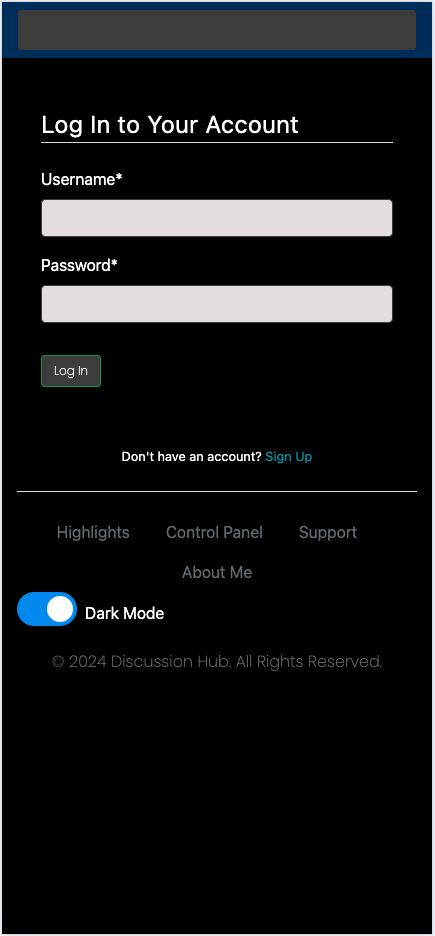
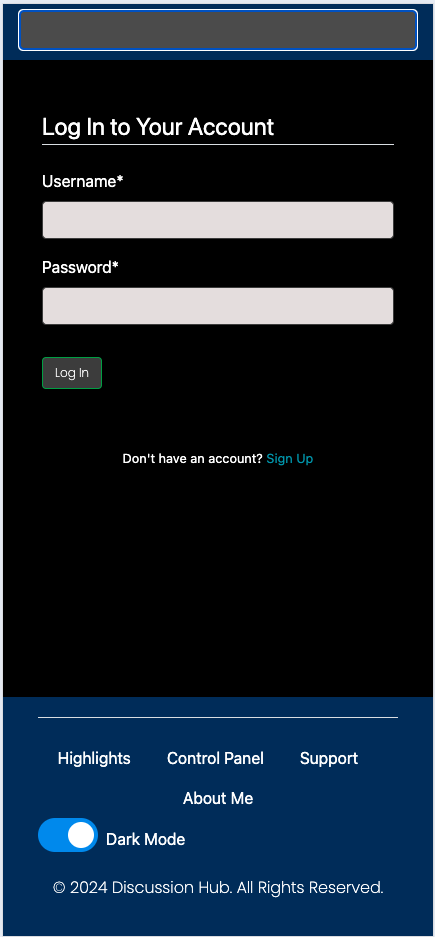
Modify the section that contains footer elements

diff --git a/README.md b/README.md
@@ -286,7 +286,7 @@ The icons used for the site were sourced from [Font Awesome](https://fontawesome
 
 The Discussion Room provides a simple yet engaging web platform, aiming to establish its unique color scheme and style. The navigation bar includes several links, offering quick access to various sections, such as About Us, Create a Post, Home Page, Logout, and the Notifications Page.
 
-The footer features additional links for Highlights, Collaboration Requests, About the Team, and the Admin Page, ensuring users can easily find important information. 
+The footer features additional links for Highlights, Collaboration Requests, About the Team, and Admin Page, ensuring users can easily find important information. This footer is fixed at the bottom of the page, providing users with continuous access to these essential resources, enhancing navigation and overall user experience.
 
 Additionally, the site includes a Trending Topics section that showcases random posts and a dedicated Advertisement Window for promotional content. Above the trending topics, users will find Categories to help them navigate discussions more effectively.
 
@@ -814,9 +814,11 @@ Each post will display 6 comments per page, with pagination activated to navigat
 
 ### Footer
 
-The footer is positioned at the bottom of the page and provides essential navigation options. It includes links to the Highlights page, Control Panel, Support and Collaboration, and About Me page. 
+The footer is fixed at the bottom of the page and features a design that matches the color of the navbar, providing a cohesive look throughout the website. It offers essential navigation options, including links to the Highlights page, Control Panel, Support and Collaboration, and About Me page.
 
-These links are accessible to both logged-in and logged-out users, ensuring that everyone can explore the content. However, the Control Panel link is restricted to authorized personnel only, while the other links remain available to all users.
+These links are accessible to both logged-in and logged-out users, ensuring that everyone can explore the content. However, the Control Panel link is restricted to authorized personnel only and will open in a separate page, while the other links remain available to all users.
+
+
 
 *Footer Page Desktop*<br>
 ![Footer Page Desktop](static/images/screenshots/footerdesktop.png)
@@ -884,10 +886,10 @@ On the right side, users will find:
 * Trending Posts showcased in a white container with black and grey text, ensuring that users can easily engage with popular discussions.
 * An Advertisement Window featuring dark grey borders with a white background, providing a clear viewing area for promotional content.
 
-At the bottom of the page, a white line visually separates the footer from the rest of the content. The footer includes essential links and a toggle switch for dark/light mode, allowing users to easily switch their viewing preference.
+At the bottom of the page, a white line visually separates the footer from the rest of the content. The footer is fixed at the bottom of the page and has the same color as the navbar, creating a cohesive look throughout the website. It includes essential links and a toggle switch for dark/light mode, allowing users to easily switch their viewing preference.
 
 *Main Page Dark Mode*<br>
-![Main Page Dark Mode](static/images/screenshots/darkmodeloggedout.png)
+![Main Page Dark Mode](static/images/screenshots/darkmodemainpageversion.png)
 
 *Main Page Dark Mobile*<br>
 ![Main Page Dark Mobile](static/images/screenshots/darkmodehome.png)
@@ -914,7 +916,7 @@ The Login Page in dark mode features a sleek design that enhances user experienc
 
 The Log In button is styled with a green border, adding a visually appealing touch. Below the login fields, users who do not have an account can find a prompt to sign up, presented in a nice blue color for emphasis.
 
-A clean white line visually separates the footer from the login options. In the bottom left corner, there is a toggle for switching between dark and light modes, designed in blue to align with the overall color theme.
+A clean white line visually separates the footer from the login options. The footer is fixed at the bottom of the page and features a fixed design that matches the overall color theme. In the bottom left corner, there is a toggle for switching between dark and light modes, designed in blue to align with the overall color theme.
 
 *Dark Mode Log In Page*<br>.
 ![Dark Mode Log In Page](static/images/screenshots/darkmodelogindesktop.png)
@@ -931,21 +933,21 @@ The Register Page in dark mode mirrors the structure of the Login Page, ensuring
 * Below the registration fields, the message for users who already have an account is displayed in white, accompanied by a Log In link styled in a nice blue color.
 * Error Messaging: If users enter incorrect information in the password fields or if they attempt to register a username that is already taken, a warning message will appear below the respective input field. This feedback helps users correct their entries promptly.
 
-At the bottom of the page, a classic line separates the toggle for switching between light and dark modes from the footer, which is presented in a subtle grey color to provide a clear and elegant delineation.
+At the bottom of the page, the footer is fixed and features all essential links presented in white, maintaining the same color as the navbar for consistency. A clean design ensures that the footer remains visually cohesive with the overall layout, providing users with easy navigation options while enhancing the aesthetic of the site.
 
 *Register Page Dark Mode Desktop*<br>
-![Register Page Dark Mode Desktop](static/images/screenshots/darkmodelregisterdesktop.png)
+![Register Page Dark Mode Desktop](static/images/screenshots/darkmoderegisterdesktop.png)
 
 *Register Page Dark Mode Mobile*<br>
 ![Register Page Dark Mobile](static/images/screenshots/darkmodelregistermobile.png)
 
 ## Footer Section ( Dark Mode)
 
-The footer in dark mode features a classic line that separates it from the main content window, providing a clean visual distinction. It includes links for Highlights, Control Panel, Support, and About Me, all styled in a nice grey color with a subtle hover effect for enhanced interactivity.
+The footer in dark mode features a classic line that separates it from the main content window, providing a clean visual distinction. It includes links for Highlights, Control Panel, Support, and About Me, all styled in white for visibility and consistency. The Control Panel link, which will open in a separate page, is reserved for administrative tasks and is only available to authorized personnel who can log in.
 
-These links are accessible across all pages for both logged-in users and those without an account. However, the Control Panel link is reserved for administrative tasks and is only available to authorized personnel who can log in.
+These links are accessible across all pages for both logged-in users and those without an account. At the bottom of the footer, there is an "All rights reserved" message, ensuring clarity regarding content ownership. Additionally, the toggle for switching between dark and light modes is present; in dark mode, the toggle appears in blue, while in light mode, it is styled in grey, maintaining consistency with the overall theme.
 
-At the bottom of the footer, there is an "All rights reserved" message, ensuring clarity regarding content ownership. Additionally, the toggle for switching between dark and light modes is present; in dark mode, the toggle appears in blue, while in light mode, it is styled in grey, maintaining consistency with the overall theme.
+The navbar is fixed at the bottom of the page, providing users with easy access to navigation while enhancing the overall aesthetic of the website.
 
 *Footer In Dark Mode Desktop*<br>
 ![ooter In Dark Mode Desktop](static/images/screenshots/footerdarkmodedesktop.png)
